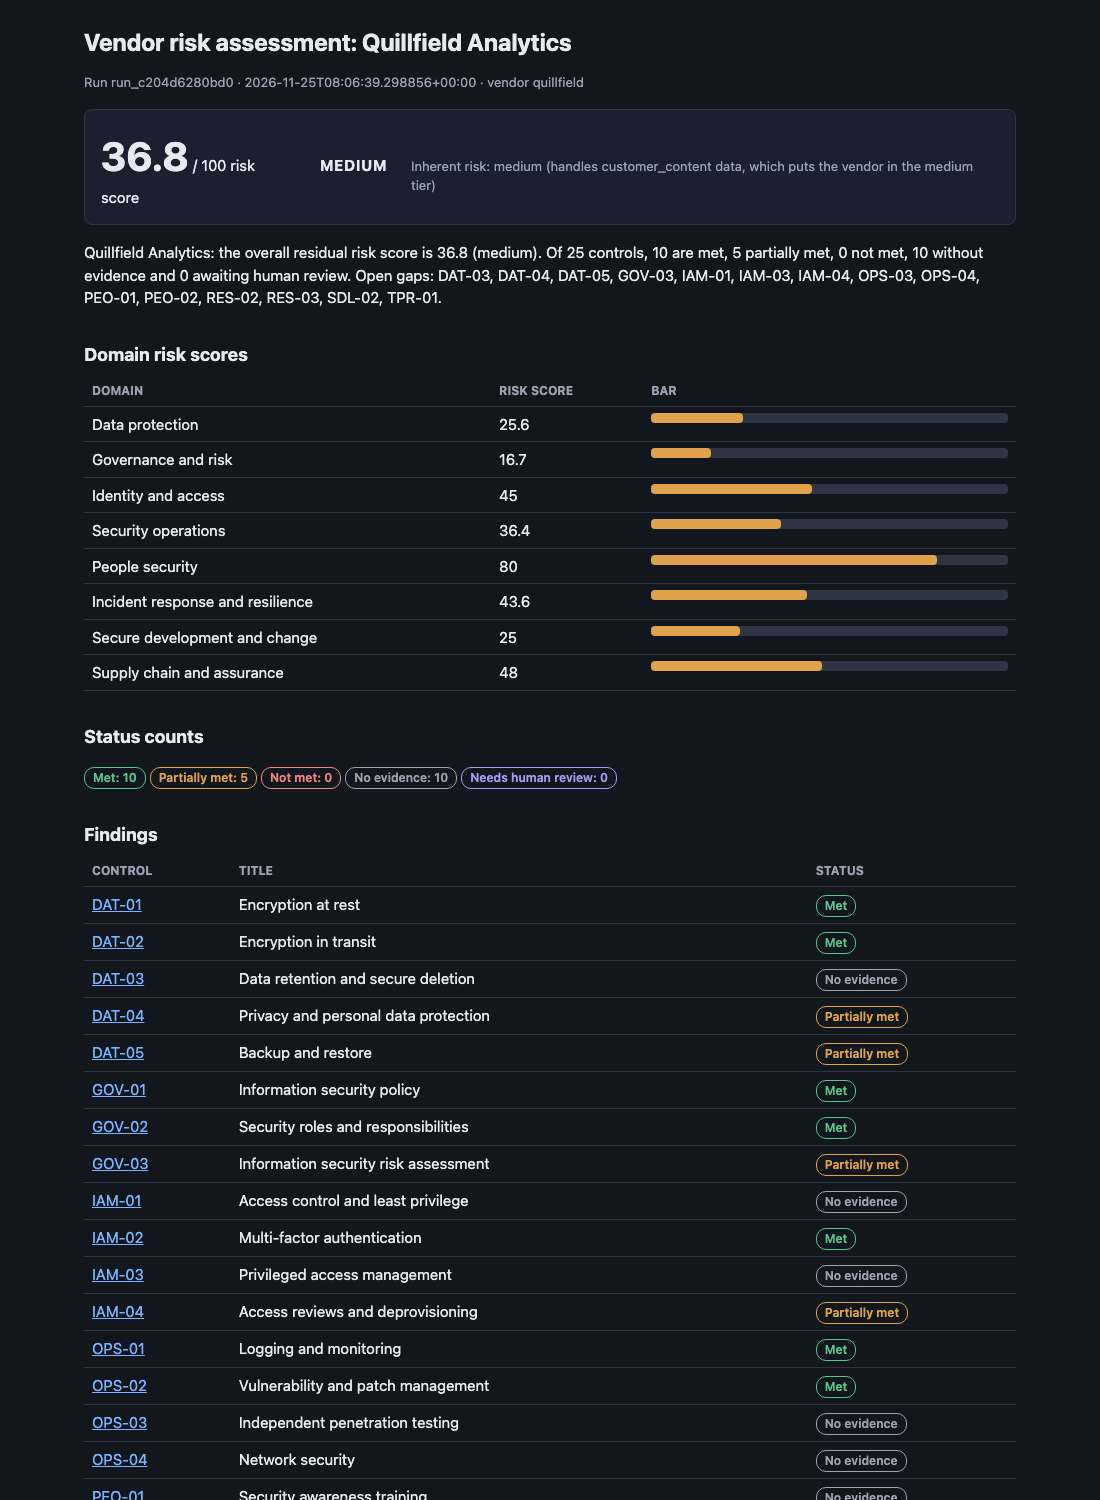
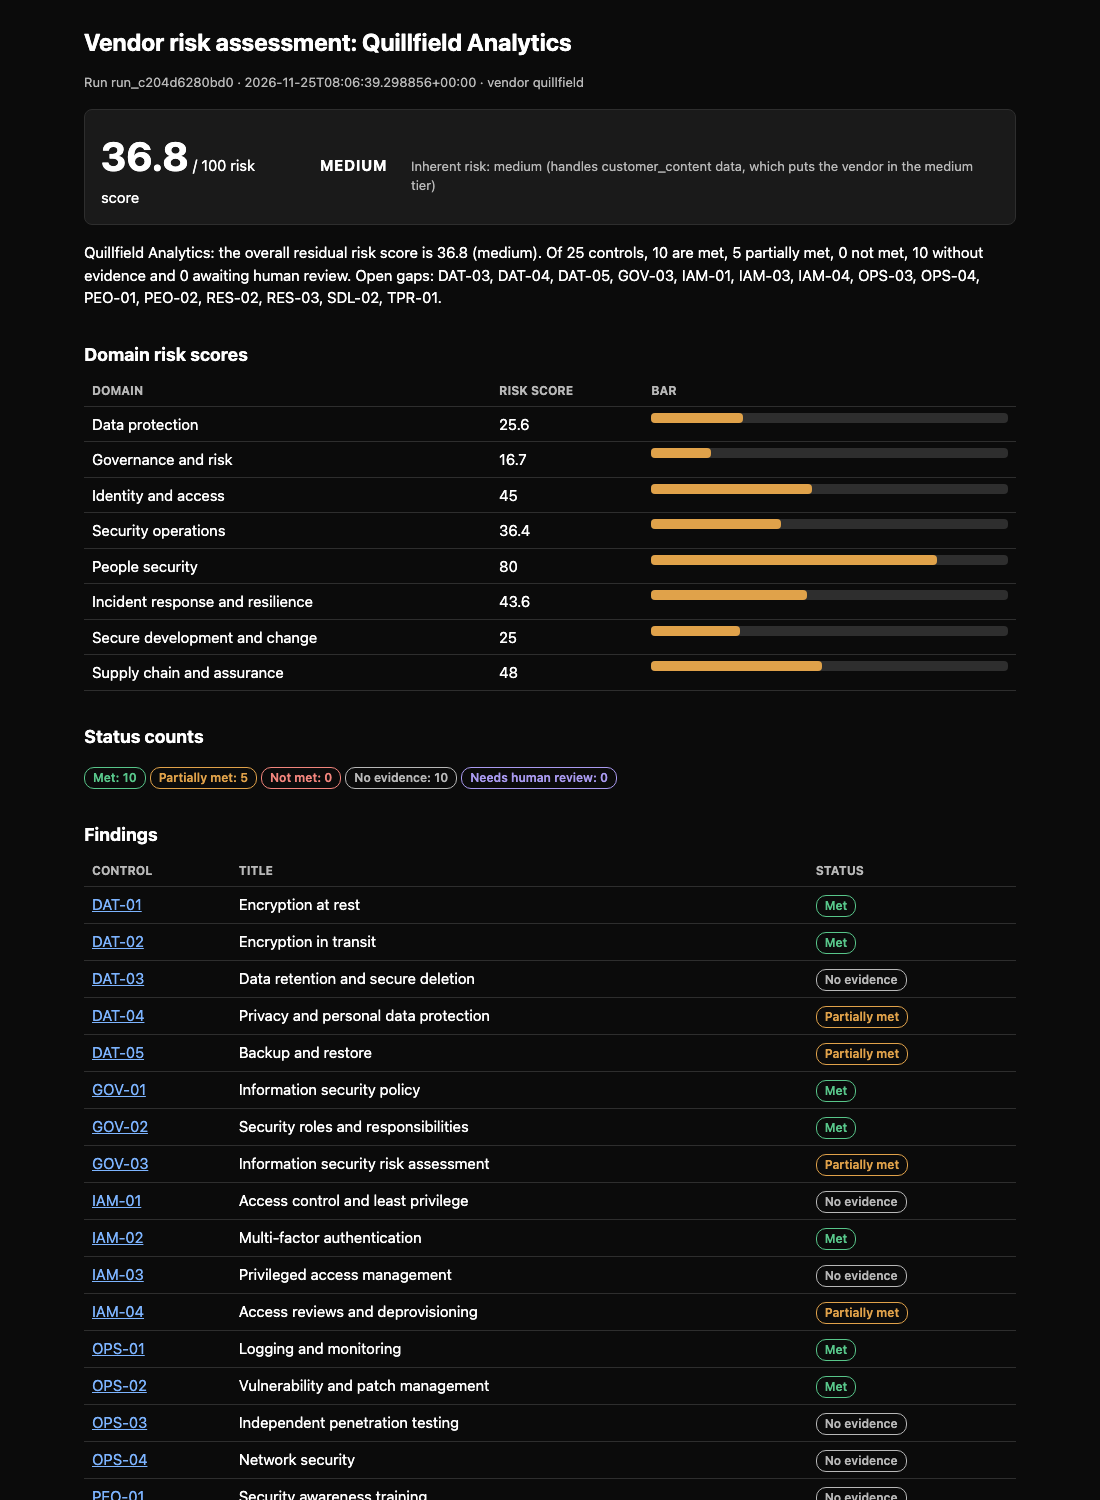
Make the demo index and the HTML reports always dark (light layout for print) and add a sample column to the demo index

diff --git a/scripts/build_demo.py b/scripts/build_demo.py
@@ -21,10 +21,13 @@ INTRO = (
     "scores here are NOT facts about the vendors: see the evaluation page for the measured "
     "accuracy."
 )
-STYLE = (
-    "body{font:16px/1.5 system-ui,sans-serif;max-width:46rem;margin:2rem auto;padding:0 1rem}"
-    "table{border-collapse:collapse;width:100%}td,th{border:1px solid #bbb;padding:.4rem .6rem;"
-    "text-align:left}"
+STYLE = (  # always dark, like the documentation site and the reports
+    ":root{color-scheme:dark}"
+    "body{font:16px/1.5 system-ui,sans-serif;max-width:46rem;margin:2rem auto;padding:0 1rem;"
+    "background:#0b0b0b;color:#fff}"
+    "a{color:#7db4ff}"
+    "table{border-collapse:collapse;width:100%;background:#121212}"
+    "td,th{border:1px solid #2e2e2e;padding:.4rem .6rem;text-align:left}th{background:#1a1a1a}"
 )
 
 
@@ -50,19 +53,22 @@ def build(site: Path, runs: dict[str, Path]) -> Path:
         shutil.copyfile(run / "report.html", demo / f"{stem}.html")
         score = result["score"]
         rows.append(
-            '<tr><td><a href="{href}">{name}</a></td><td>{score:g}</td><td>{band}</td></tr>'.format(
+            '<tr><td><a href="{href}">{name}</a></td><td>{sample}</td><td>{score:g}</td>'
+            "<td>{band}</td></tr>".format(
                 href=html.escape(f"{stem}.html", quote=True),
                 name=html.escape(str(result["profile"]["vendor_name"])),
+                sample=html.escape(stem),  # two samples can share a vendor name (year 1 and year 2)
                 score=score["overall"],
                 band=html.escape(str(score["band"])),
             )
         )
     page = (
         '<!doctype html><html lang="en"><head><meta charset="utf-8">'
+        '<meta name="color-scheme" content="dark">'
         "<title>VendorGuard AI demo reports</title>"
         f"<style>{STYLE}</style></head><body><h1>VendorGuard AI demo reports</h1>"
         f"<p>{html.escape(INTRO)}</p>"
-        "<table><tr><th>Vendor</th><th>Risk score</th><th>Band</th></tr>"
+        "<table><tr><th>Vendor</th><th>Sample</th><th>Risk score</th><th>Band</th></tr>"
         + "".join(rows)
         + '</table><p><a href="../">Documentation</a></p></body></html>\n'
     )

diff --git a/tests/unit/reporting/test_reports.py b/tests/unit/reporting/test_reports.py
@@ -168,8 +168,8 @@ def test_citations_show_the_document_name_and_page(run) -> None:  # type: ignore
     assert "quillfield.txt" in (run_dir / "report.md").read_text(encoding="utf-8")
 
 
-def test_html_link_colour_is_readable_in_both_colour_schemes() -> None:
-    """Found in a dark-mode screenshot: the default link blue is invisible on the dark card."""
+def test_html_report_is_always_dark_on_screen_and_light_in_print() -> None:
+    """On screen the report is near-black with white text, whatever the system setting is."""
     from pathlib import Path
 
     css = (
@@ -180,6 +180,8 @@ def test_html_link_colour_is_readable_in_both_colour_schemes() -> None:
         / "templates"
         / "report.html.j2"
     ).read_text(encoding="utf-8")
-    light, dark = css.split("@media (prefers-color-scheme: dark)", 1)
-    assert "--link:" in light and "--link:" in dark
+    screen, print_part = css.split("@media print { :root", 1)
+    assert "prefers-color-scheme" not in css  # no light variant that follows the system
+    assert "--bg:#0b0b0b" in screen and "--fg:#ffffff" in screen and "--link:" in screen
+    assert "--bg:#fff" in print_part and "--link:" in print_part
     assert "a { color: var(--link); }" in css

diff --git a/tests/unit/test_build_demo.py b/tests/unit/test_build_demo.py
@@ -39,6 +39,9 @@ def test_build_copies_reports_and_escapes_the_index(demo: ModuleType, tmp_path: 
     assert "<script>" not in page and "&lt;script&gt;" in page and "Alpha &amp; Co" in page
     assert page.index('href="a.html"') < page.index('href="b.html"')  # sorted by stem
     assert "SYNTHETIC" in page and "12.5" in page
+    assert (
+        "<td>a</td>" in page and "<td>b</td>" in page
+    )  # the sample name tells equal vendor names apart
 
 
 def test_a_runs_folder_must_hold_exactly_one_run(demo: ModuleType, tmp_path: Path) -> None:

diff --git a/docs/PROGRESS.md b/docs/PROGRESS.md
@@ -163,6 +163,7 @@
 
 Half-finished work, uncommitted changes, or things the next session must know:
 
+- DEMO + REPORTS ALWAYS DARK (user: the demo page was white, wanted black): the HTML report template (`reporting/templates/report.html.j2`) no longer follows the system colour scheme: near-black page, white text, `<meta name="color-scheme" content="dark">`; `@media print` switches to a light palette so printed/PDF reports stay readable; `scripts/build_demo.py` index page is dark too and has a Sample column (two samples share the vendor name 'Nimbara HR': year 1 and year 2); `docs/assets/report-quillfield.png` re-shot. Verified with headless Chrome and a LIGHT system setting forced: both pages dark. `tests/unit/reporting/test_reports.py::test_html_report_is_always_dark_on_screen_and_light_in_print` pins it. All user-facing HTML (docs site, UI, reports, demo index, charts) is now dark.
 - 11.3/11.5 RELEASE v1.0.0 PUBLISHED (user approved twice: 'release v1.0.0 now' after the UI was built). Tag `v1.0.0` (annotated) on b0d1709 (CI, Pages and deploy green on that exact commit). Release workflow run 45594979481: success (tag-on-main check, build, smoke test, push of the tested image, GitHub Release). VERIFIED AFTERWARDS: release page https://github.com/himanshugoel9725/vendorguard-ai/releases/tag/v1.0.0 (not draft, not pre-release; notes = the docker pull line + a 'Full Changelog' link: there is no previous tag, so no generated change list); the image `ghcr.io/himanshugoel9725/vendorguard-ai` answers ANONYMOUSLY for tags 1.0.0, 1.0 and latest (manifest HTTP 200 without credentials), so the package is public. NOT verified: pulling and RUNNING the published image on a machine (Docker is not installed here; the CI smoke test ran the same image before it was pushed); linux/amd64 only. STILL THE USER'S: 11.2 record the demo video, 11.4 fill in the submission form (links: repo https://github.com/himanshugoel9725/vendorguard-ai, docs https://himanshugoel9725.github.io/vendorguard-ai/, demo reports .../demo/, release .../releases/tag/v1.0.0). Also still open: `chmod 600 .env`; the employer/client/programme name search (needs the user's list); GitHub settings I cannot see (github-pages environment branches, tag protection for `v*`); Docker Desktop task 0.8. A `phase-11-done` tag was NOT created because 11.2 and 11.4 are open. Known limits are documented in README/docs (3B model only, Letta not implemented, API single-process, UI not clicked through for upload/override/download).
 - UI DARK THEME (user: 'it should be dark black with white text'): `.streamlit/config.toml` `[theme]` base dark, background #0b0b0b, panels #1a1a1a, text #ffffff, accent #3b82f6, large radius (Streamlit follows the SYSTEM light/dark setting by default, which is why it looked light); `tests/unit/ui/test_theme.py` pins it with WCAG contrast checks (text/background >= 15, white on the accent >= 3). VERIFIED IN A REAL BROWSER for the first time: headless Chrome driven through the DevTools protocol (websockets, from the ui group) loaded the real UI: computed page background rgb(11,11,11) and text rgb(255,255,255); the Assess, History and Findings tabs were clicked, vendors/history/findings rendered from real API data; screenshots `docs/assets/ui-findings.png` and `ui-history.png` (synthetic data) are in docs/ui.md and the README. NOT exercised in a browser: file upload, the override form, the report download. The earlier 'nobody has clicked through it' notes are superseded for the three tabs.
 - 11.3 RELEASE PREP (user approved 'release v1.0.0 now' after the UI): version 0.1.0 -> 1.0.0 in `pyproject.toml`, `src/vendorguard/__init__.py` and `uv.lock`; README Status note and roadmap updated. Then: wait for CI green, `git tag -a v1.0.0` on main, push the tag; the release workflow checks the tag is on main, builds, smoke-tests and pushes `ghcr.io/himanshugoel9725/vendorguard-ai:1.0.0`/`1.0`/`latest`/`sha-...`, and creates the GitHub Release with generated notes. After it: verify the release page, pull the image anonymously (GHCR package visibility may need the user to set it to public in the package settings), re-check the Pages site.
